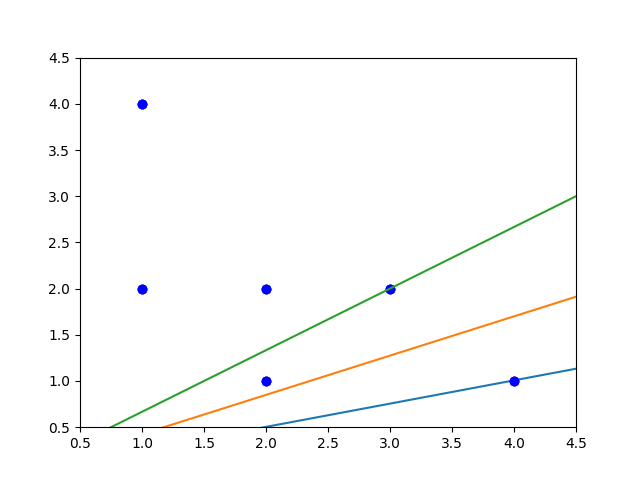
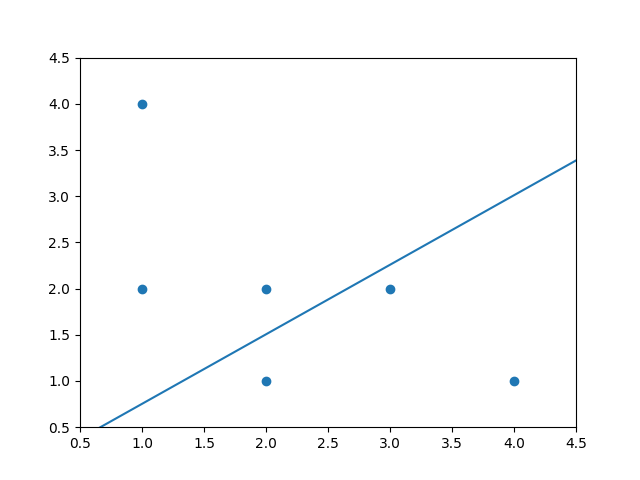
pain

diff --git a/002/neural_network/neural_network.py b/002/neural_network/neural_network.py
@@ -11,7 +11,7 @@ class NeuralNetwork(NNDirectedWeightedGraph):
         self.data_points = data_points # Temporary
         self.set_weight_gradients()
         self.set_misclassifications() # Temporary
-        self.set_predictions() # Temporary
+        self.set_predictions()
 
     def set_weight_gradients(self):
         self.weight_gradients = {edge: 0.0 for edge in self.weights.keys()}
@@ -22,48 +22,27 @@ class NeuralNetwork(NNDirectedWeightedGraph):
     def set_predictions(self):
         self.predictions = {tuple(data_point['input']): 0.0 for data_point in self.data_points}
 
-    def update_weights(self, print_output=False ,iteration=1, plot=False):
+    def update_weights(self, print_output=False, iteration=1):
         for edge in self.weights.keys():
-            alpha_times_delta_e = self.alpha * self.weight_gradients[edge] # Temporary
-            self.weights[edge] -= alpha_times_delta_e # Descent `edge`'s Weight
-        if print_output and (iteration < 6 or iteration % 100 == 0):
+            self.weights[edge] -= self.alpha * self.weight_gradients[edge] # Descent `edge`'s Weight
+        if print_output and (iteration < 6 or iteration % 1000 == 0):
             self.print_outputs(iteration) # Self explainitory
-        if not plot:
-            self.set_weight_gradients()
-            self.set_misclassifications() # Temporary
-            self.set_predictions() # Temporary
-
-    def compute_predictions(self, data_point):
-        if not hasattr(self, 'paths'):
-            self.paths = {index: self.get_every_possible_path_containing_index(index) for index in range(len(data_point['input']))}
-        for input_index, value in enumerate(data_point['input']):
-            if isinstance(self.paths[input_index], list):
-                total_weight = 0
-                for path in self.paths[input_index]:
-                    total_weight += math.prod([self.weights[(path[i], path[i + 1])] for i in range(0, len(path) - 1)])
-                self.paths[input_index] = float(total_weight)
-                del total_weight
-            self.predictions[tuple(data_point['input'])] += data_point['input'][input_index] * self.paths[input_index]
-
+        self.set_weight_gradients()
+        self.set_misclassifications() # Temporary
+        self.set_predictions()
 
     def update_weight_gradients(self, data_point, edge):
         dE = self.calc_dE(data_point, edge) # Calculate Gradient
-        self.weight_gradients[edge] += dE # Update Gradient
-        if self.predictions[tuple(data_point['input'])] != 0.0:
+        if data_point['output'](self.predictions[tuple(data_point['input'])]) != 0.0:
             self.misclassifications[tuple(data_point['input'])] = True
+            self.weight_gradients[edge] += dE # Update Gradient
         if self.debug:
             self.print_debugging_variables(data_point, edge, dE)
         self.set_node_values() # Reset the values, that are used for prediction, of all the nodes
 
     def calc_dE(self, data_point, edge):
-        if data_point['output'](self.predictions[tuple(data_point['input'])]):
-            return 0.0
         self.calc_prediction(data_point)
-        every_possible_path_containing_edge = self.get_every_possible_path_containing_edge(current_paths=[list(edge)])
-        total_weight = 0
-        for path in every_possible_path_containing_edge:
-            total_weight += math.prod([self.weights[(path[i], path[i + 1])] for i in range(1, len(path) - 1)])
-        return 2 * self.predictions[tuple(data_point['input'])] * total_weight * self.nodes[edge[0]].value
+        return 2 * data_point['output'](self.predictions[tuple(data_point['input'])]) * self.nodes[edge[0]].value
         
     def calc_prediction(self, data_point):
         # Start and Iterate through input nodes
@@ -72,26 +51,19 @@ class NeuralNetwork(NNDirectedWeightedGraph):
         for index, value in enumerate(data_point['input']):
             self.nodes[index].value = value
             self.fortrack_prediction(index, value)
-        #return self.nodes[-1].value, self.classify(data_point)
+        self.predictions[tuple(data_point['input'])] = self.nodes[-1].value
 
     # Backtrack, but forwards | back-wards <-> for-wards = back-track <-> for-track
     def fortrack_prediction(self, index, value): 
         # Recursive iteration through the nodes
         # Updating their predictionvalues along the way
-        current_node_children = self.nodes[index].children
-        if len(current_node_children) > 0.0:
-            for child_index in current_node_children:
+        if len(self.nodes[index].children) > 0: # If not output node
+            for child_index in self.nodes[index].children:
                 self.nodes[child_index].value += value * self.weights[(index, child_index)]
-                self.fortrack_prediction(child_index, self.nodes[child_index].value)
-
-    def classify(self, data_point): # Binary Classification
-        pred = float(self.nodes[-1].value)
-        self.nodes[-1].value = 0.0
-        if data_point['output'](pred):
-            self.nodes[-1].value = 0.0
-            return 0.0
-        else:
-            return float(pred)
+                self.nodes[child_index].predicted_count += 1
+            for child_index in self.nodes[index].children:
+                if self.nodes[child_index].predicted_count == len(self.nodes[child_index].parents):
+                    self.fortrack_prediction(child_index, self.nodes[child_index].value)
 
     def print_outputs(self, iteration):
         print('iteration {}'.format(iteration))

diff --git a/002/neural_network/002-3.py b/002/neural_network/002-3.py
@@ -1,44 +1,46 @@
 from neural_network import NeuralNetwork
+import matplotlib.pyplot as plt
 
 weights = {
-  (0, 2): 1, 
-  (1, 2): 1, 
-  (0, 3): 1, 
-  (1, 3): 1, 
-  (2, 4): 1, 
-  (3, 4): 1, 
-  (2, 5): 1, 
-  (3, 5): 1, 
-  (4, 6): 1, 
-  (5, 6): 1
+    (3, 4): -0.1,
+    (2, 4): 0.2,
+    (1, 3): -0.3,
+    (0, 3): 0.4,
+    (1, 2): -0.5,
+    (0, 2): 0.6
 }
 
 data_points = [
-    {'input': [1, 4], 'output': lambda pred: pred >= 0},
-    {'input': [1, 2], 'output': lambda pred: pred >= 0},
-    {'input': [2, 2], 'output': lambda pred: pred >= 0},
-    {'input': [2, 1], 'output': lambda pred: pred < 0},
-    {'input': [3, 2], 'output': lambda pred: pred < 0},
-    {'input': [4, 1], 'output': lambda pred: pred < 0}
+    {'input': [1, 4], 'output': lambda pred: 0.0 if pred >= 0 else pred},
+    {'input': [1, 2], 'output': lambda pred: 0.0 if pred >= 0 else pred},
+    {'input': [2, 2], 'output': lambda pred: 0.0 if pred >= 0 else pred},
+    {'input': [2, 1], 'output': lambda pred: 0.0 if pred < 0 else pred},
+    {'input': [3, 2], 'output': lambda pred: 0.0 if pred < 0 else pred},
+    {'input': [4, 1], 'output': lambda pred: 0.0 if pred < 0 else pred}
 ]
 
 nn = NeuralNetwork(weights, data_points=data_points, debug = False)
 
-i = 0
-while True:
-    for edge in weights.keys():
-        for data_point in data_points:
-            nn.update_weight_gradients(data_point, edge)
-    nn.update_weights()
-    #if i < 6 or i % 100 == 0:
-    print('iteration {}'.format(i))
-    print('\tgradient: {}'.format(nn.weight_gradients))
-    temp = sum([1 for classification in nn.misclassifications.values() if classification])
-    print('\tmisclassifications: {}'.format(temp))
-    print('\tupdated weights: {}'.format(nn.weights))
-    print()
-    nn.set_weight_gradients()
-    if temp <= 1:
-        break
-    nn.set_misclassifications()
-    i += 1
+def run_neural_network(nn, iterations):
+    for i in range(1, iterations + 1):
+        for edge in weights.keys():
+            for data_point in data_points:
+                nn.update_weight_gradients(data_point, edge)
+        if list(nn.misclassifications.values()).count(True) < 1:
+            break
+        nn.update_weights(print_output=False, iteration=i)
+
+    plot_boundry_line(nn)
+    return nn
+
+def boundry_line(weights, x):
+  return ((weights[(0, 2)] * weights[(2, 4)] + weights[(0, 3)] * weights[(3, 4)]) / (weights[(1, 2)] * weights[(2, 4)] + weights[(1, 3)] * weights[(3, 4)])) * -1 *  x
+
+def plot_boundry_line(nn):
+    plt.plot([x / 100 for x in range(1000)], [boundry_line(nn.weights, x / 100) for x in range(1000)])
+    
+nn1 = run_neural_network(nn, 1000)
+
+plt.scatter([data_point['input'][0] for data_point in data_points], [data_point['input'][1] for data_point in data_points])
+plt.axis([0.5, 4.5, 0.5, 4.5])
+plt.savefig('neural_net.png')

diff --git a/002/neural_network/002-1.py b/002/neural_network/002-1.py
@@ -1,35 +1,42 @@
 from neural_network import NeuralNetwork
+import matplotlib.pyplot as plt
 
 weights = {
-    (0, 2): 0.6,
-    (1, 2): -0.5,
-    (0, 3): 0.4,
-    (1, 3): -0.3,
-    (2, 4): 0.2,
-    (3, 4): -0.1
+    (0, 2): 1,
+    (1, 2): 1
 }
 
 data_points = [
-    {'input': [1, 4], 'output': lambda pred: pred >= 0},
-    {'input': [1, 2], 'output': lambda pred: pred >= 0},
-    {'input': [2, 2], 'output': lambda pred: pred >= 0},
-    {'input': [2, 1], 'output': lambda pred: pred < 0},
-    {'input': [3, 2], 'output': lambda pred: pred < 0},
-    {'input': [4, 1], 'output': lambda pred: pred < 0}
+    {'input': [1, 4], 'output': lambda pred: 0.0 if pred >= 0 else pred},
+    {'input': [1, 2], 'output': lambda pred: 0.0 if pred >= 0 else pred},
+    {'input': [2, 2], 'output': lambda pred: 0.0 if pred >= 0 else pred},
+    {'input': [2, 1], 'output': lambda pred: 0.0 if pred < 0 else pred},
+    {'input': [3, 2], 'output': lambda pred: 0.0 if pred < 0 else pred},
+    {'input': [4, 1], 'output': lambda pred: 0.0 if pred < 0 else pred}
 ]
 
-nn = NeuralNetwork(weights, data_points=data_points, debug=False)
+nn = NeuralNetwork(weights, data_points=data_points, debug = False)
 
 def run_neural_network(nn, iterations):
     for i in range(1, iterations + 1):
-        for data_point in data_points:
-            nn.compute_predictions(data_point)
         for edge in weights.keys():
-            nn.update_weight_gradients(data_point, edge)
-        nn.update_weights(print_output=True, iteration=i, plot=True)
+            for data_point in data_points:
+                nn.update_weight_gradients(data_point, edge)
         if list(nn.misclassifications.values()).count(True) < 1:
             break
+        nn.update_weights(print_output=True, iteration=i, plot=False)
 
-run_neural_network(nn, 1)
-print('\n\nnfioefioewbufe[w\n\n')
-run_neural_network(nn, 1)
+    plot_boundry_line(nn)
+    return nn
+
+def boundry_line(weights, x):
+  return - ((weights[(0, 2)] * weights[(2, 4)] + weights[(0, 3)] * weights[(3, 4)]) / (weights[(1, 2)] * weights[(2, 4)] + weights[(1, 3)] * weights[(3, 4)])) * x
+
+def plot_boundry_line(nn):
+    plt.plot([x / 100 for x in range(1000)], [boundry_line(nn.weights, x / 100) for x in range(1000)])
+    
+nn1 = run_neural_network(nn, 10000)
+
+plt.scatter([data_point['input'][0] for data_point in data_points], [data_point['input'][1] for data_point in data_points])
+plt.axis([0.5, 4.5, 0.5, 4.5])
+plt.savefig('neural_net.png')

diff --git a/002/neural_network/002-2.py b/002/neural_network/002-2.py
@@ -2,17 +2,21 @@ from neural_network import NeuralNetwork
 import matplotlib.pyplot as plt
 
 weights = {
-  (0,2): 1, 
-  (1,2): 1
+    (3, 4): -0.1,
+    (2, 4): 0.2,
+    (1, 3): -0.3,
+    (0, 3): 0.4,
+    (1, 2): -0.5,
+    (0, 2): 0.6
 }
 
 data_points = [
-    {'input': [1, 4], 'output': lambda pred: pred >= 0},
-    {'input': [1, 2], 'output': lambda pred: pred >= 0},
-    {'input': [2, 2], 'output': lambda pred: pred >= 0},
-    {'input': [2, 1], 'output': lambda pred: pred < 0},
-    {'input': [3, 2], 'output': lambda pred: pred < 0},
-    {'input': [4, 1], 'output': lambda pred: pred < 0}
+    {'input': [1, 4], 'output': lambda pred: 0.0 if pred >= 0 else pred},
+    {'input': [1, 2], 'output': lambda pred: 0.0 if pred >= 0 else pred},
+    {'input': [2, 2], 'output': lambda pred: 0.0 if pred >= 0 else pred},
+    {'input': [2, 1], 'output': lambda pred: 0.0 if pred < 0 else pred},
+    {'input': [3, 2], 'output': lambda pred: 0.0 if pred < 0 else pred},
+    {'input': [4, 1], 'output': lambda pred: 0.0 if pred < 0 else pred}
 ]
 
 nn = NeuralNetwork(weights, data_points=data_points, debug = False)
@@ -22,32 +26,8 @@ def run_neural_network(nn, iterations):
         for edge in weights.keys():
             for data_point in data_points:
                 nn.update_weight_gradients(data_point, edge)
-        nn.update_weights(print_output=False, iteration=i, plot=True)
         if list(nn.misclassifications.values()).count(True) < 1:
             break
-        nn.set_misclassifications()
-        nn.set_weight_gradients()
-        nn.set_predictions()
+        nn.update_weights(print_output=True, iteration=i)
 
-    plot_boundry_line(nn)
-    return nn
-
-def boundry_line(weights, x):
-  return -(weights[(0, 2)] / weights[(1, 2)]) * x
-
-def plot_boundry_line(nn):
-    for data_point in data_points:
-        if data_point['output'] is (lambda pred: pred < 0):
-            plt.plot([data_point['input'][0]], [data_point['input'][1]], 'ro')
-        else:
-            plt.plot([data_point['input'][0]], [data_point['input'][1]], 'bo')
-
-    plt.plot([x / 100 for x in range(1000)], [boundry_line(nn.weights, x / 100) for x in range(1000)])
-    plt.axis([0.5, 4.5, 0.5, 4.5])
-    plt.savefig('neural_net.png')
-
-nn1 = run_neural_network(nn, 40)
-
-nn2 = run_neural_network(nn1, 20)
-
-nn3 = run_neural_network(nn2, 856)
+nn1 = run_neural_network(nn, 100000)

diff --git a/002/neural_network/nn_directed_weighted_graph.py b/002/neural_network/nn_directed_weighted_graph.py
@@ -14,6 +14,7 @@ class NNDirectedWeightedGraph:
     def set_node_values(self):
         for node in self.nodes:
             node.value = 0
+            node.predicted_count = 0
 
     # Utilizes BacktrackingTM to get the depth recursively
     def get_depth(self, index, current_depth=0):
@@ -57,6 +58,7 @@ class DirectedWeightedNode:
         self.parents = []
         self.children_weights = {}
         self.parents_weights = {}
+        self.predicted_count = 0
 
     def set_depth(self, depth):
         self.depth = depth
